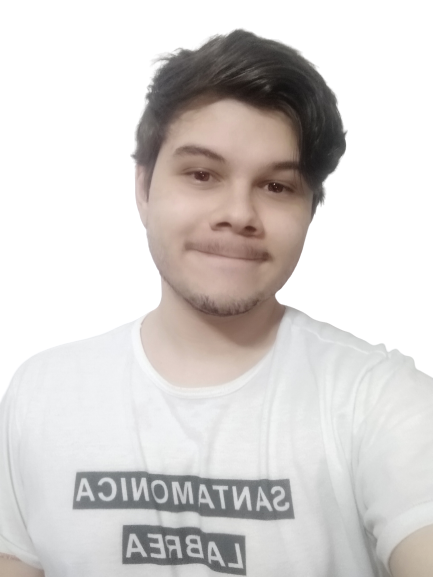
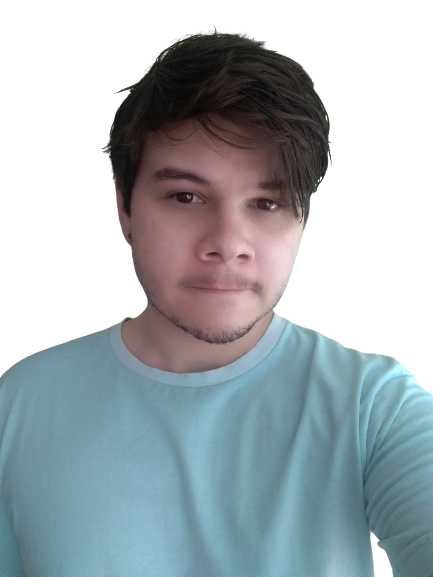
Seção de contato concluída

diff --git a/src/components/contact/Contact.jsx b/src/components/contact/Contact.jsx
@@ -1,8 +1,83 @@
 import React from "react";
 import "./contact.css";
+import { MdOutlineEmail } from "react-icons/md";
+import { BsWhatsapp } from "react-icons/bs";
+import { useRef } from "react";
+import emailjs from "emailjs-com";
+
+const ddd = "11";
+const whatsapp = "987419874";
+const whatsappParte1 = "98741";
+const whatsappParte2 = "9874";
+const email = "rafaelberger.dev@gmail.com";
 
 const Contact = () => {
-  return <section id="contact">Contact</section>;
+  const form = useRef();
+
+  const sendEmail = (e) => {
+    e.preventDefault();
+
+    emailjs
+      .sendForm(
+        "service_7mems34",
+        "template_qpmy5gl",
+        form.current,
+        "UAKtPPyVdn2DnV-yP"
+      )
+      .then(
+        (result) => {
+          console.log(result.text);
+        },
+        (error) => {
+          console.log(error.text);
+        }
+      );
+
+    e.target.reset();
+  };
+
+  return (
+    <section id="contact">
+      <h5>Get In Touch</h5>
+      <h2>Contact Me</h2>
+
+      <div className="container contact__container">
+        <div className="contact__options">
+          <article className="contact__option">
+            <MdOutlineEmail className="contact__option-icon" />
+            <h4>E-mail</h4>
+            <h5>{email}</h5>
+            <a href={`mailto:${email}`} target="_blank">
+              Send an e-mail
+            </a>
+          </article>
+
+          <article className="contact__option">
+            <BsWhatsapp className="contact__option-icon" />
+            <h4>WhatsApp</h4>
+            <h5>{`+55 (${ddd}) ${whatsappParte1}-${whatsappParte2}`}</h5>
+            <a href={`https://wa.me/55${ddd}${whatsapp}`} target="_blank">
+              Send a message
+            </a>
+          </article>
+        </div>
+        {/* End of Options */}
+        <form ref={form} onSubmit={sendEmail}>
+          <input type="text" name="name" placeholder="Your Name" required />
+          <input type="email" name="email" placeholder="Your Email" required />
+          <textarea
+            name="message"
+            rows="7"
+            placeholder="Your Message"
+            required
+          ></textarea>
+          <button type="submit" className="btn btn-primary">
+            Send Message
+          </button>
+        </form>
+      </div>
+    </section>
+  );
 };
 
 export default Contact;

diff --git a/src/components/contact/contact.css b/src/components/contact/contact.css
@@ -1,0 +1,71 @@
+.container.contact__container {
+  width: 58%;
+  display: grid;
+  grid-template-columns: 30% 58%;
+  gap: 12%;
+}
+
+.contact__options {
+  display: flex;
+  flex-direction: column;
+  gap: 1.2rem;
+}
+
+.contact__option {
+  background: var(--color-bg-variant);
+  padding: 1.2rem;
+  border-radius: 1.2rem;
+  text-align: center;
+  border: 1px solid transparent;
+  transition: var(--transition);
+}
+
+.contact__option:hover {
+  background: transparent;
+  border-color: var(--color-primary-variant);
+}
+
+.contact__option-icon {
+  font-size: 1.5rem;
+  margin-bottom: 0.5rem;
+}
+
+.contact__option a {
+  margin-top: 0.7rem;
+  display: inline-block;
+  font-size: 0.8rem;
+}
+
+/* ============ Form ============ */
+
+form {
+  display: flex;
+  flex-direction: column;
+  gap: 1.2rem;
+}
+
+input,
+textarea {
+  width: 100%;
+  padding: 1.5rem;
+  border-radius: 0.5rem;
+  background: transparent;
+  border: 2px solid var(--color-primary-variant);
+  resize: none;
+  color: var(--color-white);
+}
+
+/* =============== MEDIA QUERIES (MEDIUM DEVICES) =============== */
+@media screen and (max-width: 1024px) {
+  .container.contact__container {
+    grid-template-columns: 1fr;
+    grid-area: 2rem;
+  }
+}
+
+/* =============== MEDIA QUERIES (SMALL DEVICES) =============== */
+@media screen and (max-width: 600px) {
+  .container.contact__container {
+    width: var(--container-width-sm);
+  }
+}

diff --git a/src/components/header/header.css b/src/components/header/header.css
@@ -29,6 +29,7 @@ header {
   position: absolute;
   left: 0;
   bottom: 3rem;
+  transform: scale(1.2);
 }
 
 .header__socials::after {
@@ -57,7 +58,7 @@ header {
   position: absolute;
   right: -2.3rem;
   bottom: 5rem;
-  transform: rotate(90deg);
+  transform: rotate(90deg) scale(1.1);
   font-weight: 300;
   font-size: 0.9rem;
 }

diff --git a/src/components/header/Header.jsx b/src/components/header/Header.jsx
@@ -1,7 +1,7 @@
 import React from "react";
 import "./header.css";
 import CTA from "./CTA";
-import ME from "../../assests/rafael-foto.png";
+import ME from "../../assests/rafael-foto-nobg.png";
 import HeaderSocials from "./HeaderSocials";
 
 const Header = () => {
